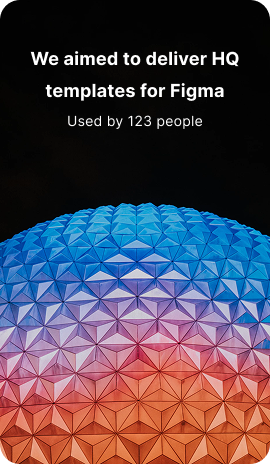
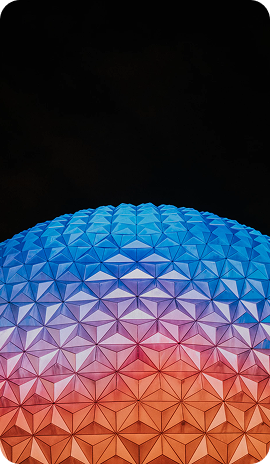
v2

Changed region(s): [[0.1481, 0.181, 0.8296, 0.2716], [0.1185, 0.0905, 0.8889, 0.1509]]

diff --git a/public/assets/css/style.css b/public/assets/css/style.css
@@ -309,6 +309,142 @@ header {
 /* ----- GRID ----- */
 
 
+/* ----- GRID ----- */
+
+
+
+
+
+.grid-container {
+display: grid;
+grid-template-columns: repeat(12, 1fr);
+grid-template-rows: repeat(10, 1fr);
+grid-column-gap: 40px;
+grid-row-gap: 40px;
+max-width: 1200px;
+margin: 40px auto;
+justify-content: center;
+}
+
+.grid-container > div {
+  width: 100%;
+  height: 100%;
+  display: flex;
+  align-items: stretch;
+  justify-content: stretch;
+}
+
+.grid-container img {
+  width: 100%;
+  height: 100%;
+  object-fit: cover;
+  display: block;
+  border-radius: 30px;
+}
+
+.grid-container .bottom-text {
+  width: 100%;
+  align-self: flex-end;
+  margin: 0 0 10px 0;
+  padding: 0 10px;
+  box-sizing: border-box;
+}
+
+.div1 { grid-area: 1 / 1 / 2 / 4; }
+.div2 { grid-area: 2 / 1 / 9 / 4; }
+.div3 { grid-area: 9 / 1 / 10 / 4; }
+.div4 { grid-area: 1 / 4 / 6 / 9; }
+.div5 { grid-area: 6 / 4 / 10 / 7; }
+.div6 { grid-area: 2 / 9 / 3 / 13; }
+.div7 { grid-area: 3 / 9 / 6 / 11; }
+.div8 { grid-area: 3 / 11 / 6 / 13; }
+.div9 { grid-area: 6 / 7 / 11 / 11; }
+.div10 { grid-area: 6 / 11 / 9 / 13; }
+
+
+/* div 1 block */
+.div1 {
+  position: relative;
+  display: flex;
+  align-items: flex-end;
+  justify-content: left; 
+  min-height: 100px; 
+}
+
+.bottom-text {
+  margin-bottom: 10px;
+  color: #333;
+  font-size: 18px;
+  font-weight: 400;
+  line-height: 32px;
+}
+
+/* div 2 block */
+.div2 {
+  position: relative;
+  overflow: hidden;
+  display: flex;
+  align-items: flex-end;
+  justify-content: center;
+}
+
+.div2-img {
+  width: 100%;
+  height: 100%;
+  object-fit: cover;
+  display: block;
+}
+
+/* div 3 block */
+.div3 {
+  position: relative;
+  width: 100%;
+  height: 100%;
+  display: flex;
+  align-items: stretch;
+  justify-content: stretch;
+  padding: 0;
+}
+
+.div3 .sign-in {
+  width: 100%;
+  height: 100%;
+  font-size: 32px;
+  padding: 0;
+  display: flex;
+  align-items: center;
+  justify-content: center;
+}
+
+/* div 4 block */
+.div4-img {
+  width: 100%;
+  height: 100%;
+  object-fit: cover;
+  display: block;
+}
+
+
+/* div 5 block */
+.div5-img {
+  width: 100%;
+  height: 100%;
+  object-fit: cover;
+  display: block;
+}
+
+/* div 6 block */
+.div6 {
+  position: relative;
+  display: flex;
+  align-items: flex-end;
+  justify-content: left;
+  min-height: 100px;
+}
+
+/* div 7 block */
+
+
 /* DELIVERING GOOD (1) */
 
 .s1954{

diff --git a/public/index.html b/public/index.html
@@ -65,8 +65,39 @@
 
 
 
+    <div class="grid-container">
+        <div class="div1">
+            <p class="bottom-text">Use mixed grid with imagery, replace with your own photos and descriptions</p>
+        </div>
+        <div class="div2">
+            <img src="assets/images/deliver.png" alt="Figma Templates">
+        </div>
+        <div class="div3">
+            <button class="sign-in">Learn more</button>
+        </div>
+        <div class="div4">
+            <img src="assets/images/consider.png" alt="Consider it done">
+        </div>
 
-
+        <div class="div5">
+            <img src="assets/images/change.png" alt="Change by Design">
+        </div>
+        <div class="div6">
+            <p class="bottom-text">This is multipurpose grid, it fits for portfolio, services or agency web site</p>
+        </div>
+        <div class="div7">
+            <img src="assets/images/A.png" alt="Letter A graphic">
+        </div>
+        <div class="div8">
+            <img src="assets/images/nike.png" alt="Blue Nike shoe">
+        </div>
+        <div class="div9">
+            <img src="assets/images/goal.png" alt="See my goal?">
+        </div>
+        <div class="div10">
+            <img src="assets/images/window.png" alt="Windows">
+        </div>
+    </div>
 
 
 
@@ -188,7 +219,7 @@
 
     <!-- AFFORDABLE PRICING -->
 
-    <section class="pricing">
+    <!-- <section class="pricing">
         <h1 class="price">Affordable pricing</h1>
         <p>
             Bill me&nbsp;
@@ -196,7 +227,7 @@
             <span class="yearly word-year">yearly</span>
         </p>
 
-    </section>
+    </section> -->
 
     <!-- FOOTER -->
     <footer class="footer">
